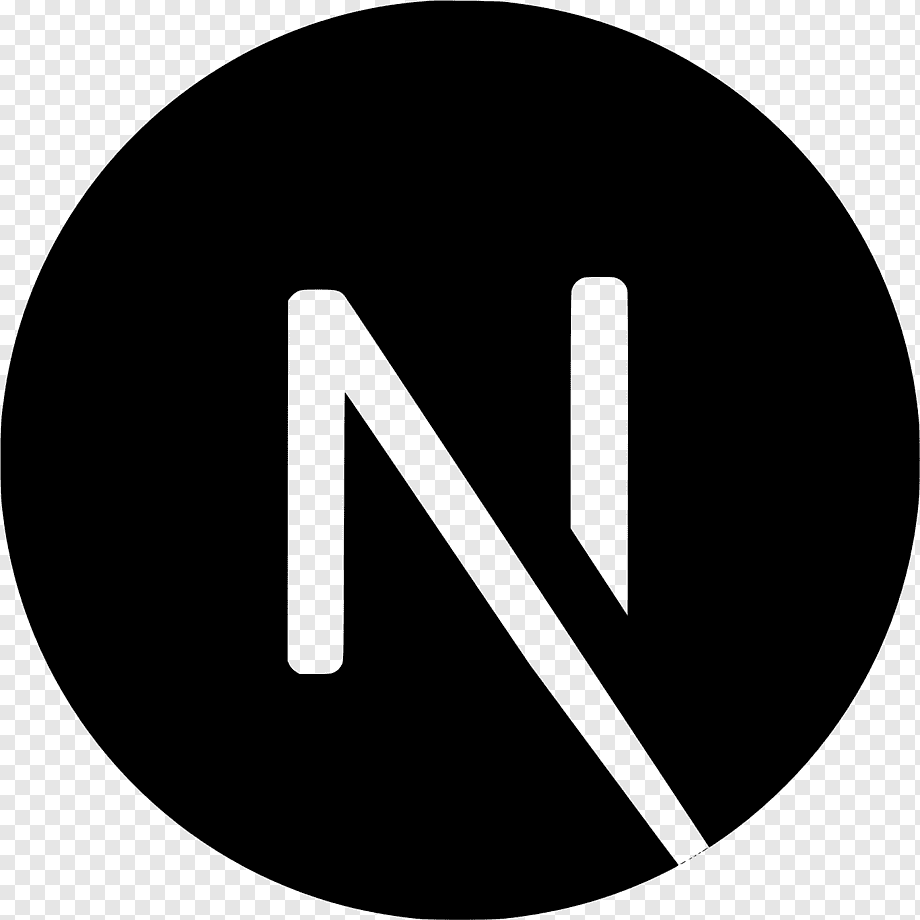
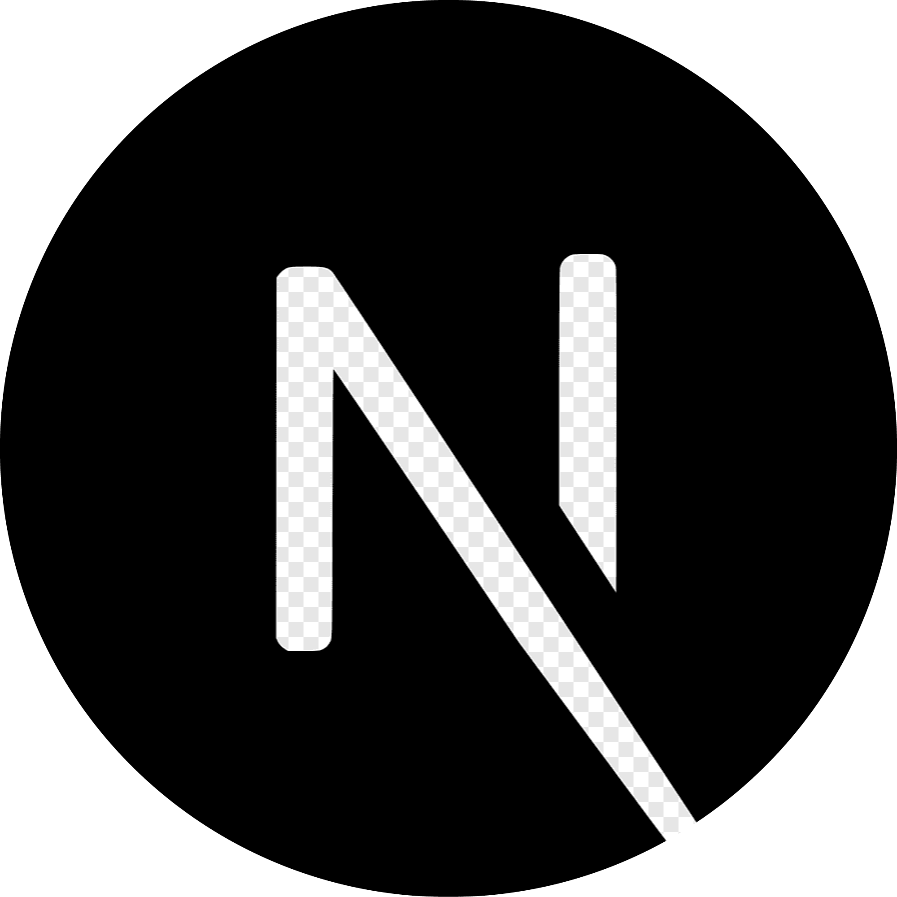
"change skills images"

Changed region(s): [[0.0, 0.0, 1.0, 1.0], [0.0, 0.0, 0.4058, 0.4058], [0.5931, 0.2809, 0.6867, 0.6867]]

diff --git a/src/app/skills.tsx b/src/app/skills.tsx
@@ -4,7 +4,7 @@ import css from "../../public/techs/css.png";
 import javascript from "../../public/techs/javascript.png";
 import typescript from "../../public/techs/typescript.png";
 import react from "../../public/techs/react.png";
-import nextjs from "../../public/techs/nextjs.png";
+import nextjs from "../../public/techs/nextJS.png";
 import github from "../../public/techs/github.png";
 import tailwind from "../../public/techs/tailwind.png";
 import Image from "next/image";
@@ -21,7 +21,7 @@ export default function Skills({ darkMode }: { darkMode: boolean }) {
       id: 2,
       src: css,
       title: "CSS",
-      style: "shadow-blue-500",
+      style: "shadow-sky-500",
     },
     {
       id: 3,
